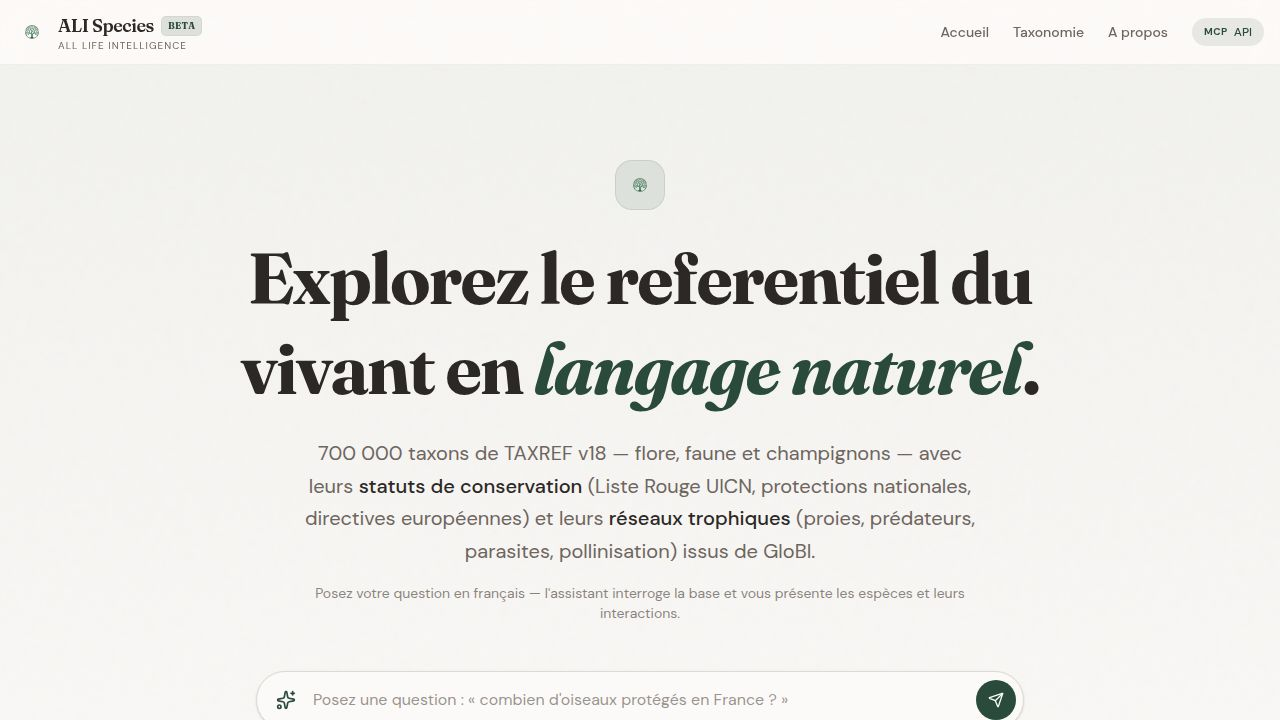
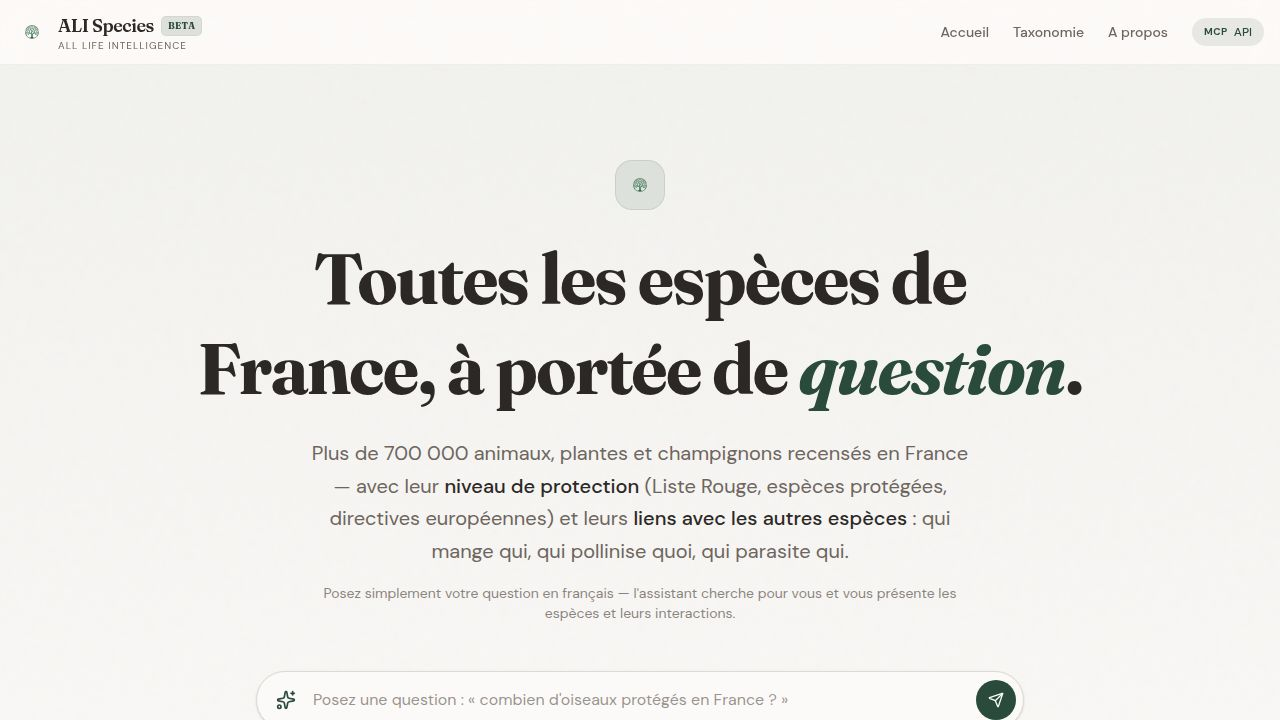
Update homepage text to be more accessible and engaging
Revise the home page's meta tags, title, and main content to use simpler, more inviting language and correct missing accents.

Replit-Commit-Author: Agent
Replit-Commit-Session-Id: 71650878-86ab-4b17-84a3-9e1638554659
Replit-Commit-Checkpoint-Type: full_checkpoint
Replit-Commit-Event-Id: 6b65151a-6105-4ef8-b159-d3953f11cf57
Replit-Commit-Screenshot-Url: https://storage.googleapis.com/screenshot-production-us-central1/38183778-ae0d-429b-93c2-632126d6a633/71650878-86ab-4b17-84a3-9e1638554659/s8YWKxS
Replit-Helium-Checkpoint-Created: true

diff --git a/artifacts/taxref-explorer/src/pages/home.tsx b/artifacts/taxref-explorer/src/pages/home.tsx
@@ -33,10 +33,10 @@ export default function Home() {
   return (
     <Layout>
       <Helmet>
-        <title>ALI Species — All Life Intelligence — Explorez le monde vivant de la France</title>
-        <meta name="description" content="ALI Species — All Life Intelligence. Explorez 700 000 taxons de TAXREF v18 : classification, statuts de conservation (Liste Rouge UICN, protections, directives) et reseaux trophiques GloBI (proies, predateurs, parasites, pollinisation)." />
-        <meta property="og:title" content="ALI Species — All Life Intelligence" />
-        <meta property="og:description" content="Explorez 700 000 taxons de TAXREF v18 : statuts de conservation et reseaux trophiques de la biodiversite francaise." />
+        <title>ALI Species — Découvrez toutes les espèces de France</title>
+        <meta name="description" content="Plus de 700 000 espèces animales, végétales et fongiques de France, avec leur niveau de protection et leurs liens avec les autres espèces. Posez votre question en français." />
+        <meta property="og:title" content="ALI Species — Découvrez toutes les espèces de France" />
+        <meta property="og:description" content="Plus de 700 000 espèces de France, leurs statuts de protection et leurs interactions avec les autres espèces." />
         <meta property="og:type" content="website" />
       </Helmet>
       <section className="relative pt-24 pb-32 px-4 overflow-visible">
@@ -47,13 +47,13 @@ export default function Home() {
             <img src={aliLogo} alt="ALI Species" className="w-8 h-8" />
           </div>
           <h1 className="text-5xl md:text-7xl font-serif font-bold text-foreground mb-6 leading-tight">
-            Explorez le referentiel du vivant en <span className="text-primary italic">langage naturel</span>.
+            Toutes les espèces de France, à portée de <span className="text-primary italic">question</span>.
           </h1>
           <p className="text-lg md:text-xl text-muted-foreground mb-4 max-w-2xl mx-auto leading-relaxed">
-            700 000 taxons de TAXREF v18 — flore, faune et champignons — avec leurs <span className="text-foreground font-medium">statuts de conservation</span> (Liste Rouge UICN, protections nationales, directives européennes) et leurs <span className="text-foreground font-medium">réseaux trophiques</span> (proies, prédateurs, parasites, pollinisation) issus de GloBI.
+            Plus de 700 000 animaux, plantes et champignons recensés en France — avec leur <span className="text-foreground font-medium">niveau de protection</span> (Liste Rouge, espèces protégées, directives européennes) et leurs <span className="text-foreground font-medium">liens avec les autres espèces</span> : qui mange qui, qui pollinise quoi, qui parasite qui.
           </p>
           <p className="text-sm text-muted-foreground/80 mb-12 max-w-2xl mx-auto">
-            Posez votre question en français — l'assistant interroge la base et vous présente les espèces et leurs interactions.
+            Posez simplement votre question en français — l'assistant cherche pour vous et vous présente les espèces et leurs interactions.
           </p>
 
           <ConversationalBar />
@@ -64,7 +64,7 @@ export default function Home() {
             className="mt-6 inline-flex items-center gap-2.5 px-6 py-3 text-sm font-semibold text-primary-foreground bg-primary hover:bg-primary/90 rounded-full transition-all hover:shadow-md hover:scale-[1.02] active:scale-[0.98] disabled:opacity-50 disabled:hover:scale-100"
           >
             <Shuffle className={`w-4 h-4 ${randomLoading ? "animate-spin" : ""}`} />
-            {randomLoading ? "Chargement..." : "Espece au hasard"}
+            {randomLoading ? "Chargement..." : "Une espèce au hasard"}
           </button>
         </div>
       </section>
@@ -72,8 +72,8 @@ export default function Home() {
       <section className="py-16 bg-card border-y border-border">
         <div className="container mx-auto px-4 max-w-5xl">
           <div className="text-center mb-10">
-            <h2 className="text-2xl font-serif font-semibold">Le vivant en chiffres</h2>
-            <p className="text-muted-foreground mt-2">Donnees du referentiel national</p>
+            <h2 className="text-2xl font-serif font-semibold">La biodiversité française en chiffres</h2>
+            <p className="text-muted-foreground mt-2">Source : référentiel TAXREF v18 du Muséum national d'Histoire naturelle</p>
           </div>
 
           <div className="grid grid-cols-2 md:grid-cols-5 gap-6">
@@ -86,11 +86,11 @@ export default function Home() {
               ))
             ) : (
               <>
-                <StatCard icon={<Microscope className="w-4 h-4" />} value={stats.totalTaxons.toLocaleString("fr-FR")} label="Taxons" />
-                <StatCard icon={<Trees className="w-4 h-4" />} value={stats.totalSpecies.toLocaleString("fr-FR")} label="Especes" />
+                <StatCard icon={<Microscope className="w-4 h-4" />} value={stats.totalTaxons.toLocaleString("fr-FR")} label="Fiches" />
+                <StatCard icon={<Trees className="w-4 h-4" />} value={stats.totalSpecies.toLocaleString("fr-FR")} label="Espèces" />
                 <StatCard icon={<Layers className="w-4 h-4" />} value={stats.totalGenera.toLocaleString("fr-FR")} label="Genres" />
                 <StatCard icon={<BookOpen className="w-4 h-4" />} value={stats.totalFamilies.toLocaleString("fr-FR")} label="Familles" />
-                <StatCard icon={<ScrollText className="w-4 h-4" />} value={stats.totalStatuts.toLocaleString("fr-FR")} label="Statuts BDC" />
+                <StatCard icon={<ScrollText className="w-4 h-4" />} value={stats.totalStatuts.toLocaleString("fr-FR")} label="Statuts de protection" />
               </>
             )}
           </div>
@@ -109,23 +109,27 @@ export default function Home() {
       </section>
 
       <section className="py-24 px-4 container mx-auto max-w-5xl">
-        <h2 className="text-3xl font-serif font-semibold mb-10 text-center">Les grands regnes</h2>
+        <h2 className="text-3xl font-serif font-semibold mb-3 text-center">Explorez les trois grands règnes</h2>
+        <p className="text-muted-foreground text-center mb-10 max-w-2xl mx-auto">Cliquez sur un règne pour parcourir les espèces qu'il rassemble.</p>
         <div className="grid md:grid-cols-3 gap-8">
           <FeaturedCard 
             title="Animalia" 
-            desc="Des invertebres microscopiques aux mammiferes."
+            subtitle="Les animaux"
+            desc="Du plancton invisible aux grands mammifères, en passant par les insectes, poissons et oiseaux."
             fallbackImage={animaliaImg}
             cdNom={183716}
           />
           <FeaturedCard 
             title="Plantae" 
-            desc="Plantes a fleurs, fougeres, mousses et algues vertes."
+            subtitle="Les plantes"
+            desc="Plantes à fleurs, fougères, mousses et algues vertes."
             fallbackImage={plantaeImg}
             cdNom={187079}
           />
           <FeaturedCard 
             title="Fungi" 
-            desc="Champignons, moisissures et levures."
+            subtitle="Les champignons"
+            desc="Champignons, moisissures et levures — un règne à part entière."
             fallbackImage={fungiImg}
             cdNom={187496}
           />
@@ -147,7 +151,7 @@ function StatCard({ icon, value, label }: { icon: React.ReactNode, value: string
   );
 }
 
-function FeaturedCard({ title, desc, fallbackImage, cdNom }: { title: string, desc: string, fallbackImage: string, cdNom: number }) {
+function FeaturedCard({ title, subtitle, desc, fallbackImage, cdNom }: { title: string, subtitle: string, desc: string, fallbackImage: string, cdNom: number }) {
   return (
     <Link href={taxonUrl(cdNom, title)} className="group block">
       <div className="relative h-64 rounded-2xl overflow-hidden mb-4 bg-muted">
@@ -157,7 +161,10 @@ function FeaturedCard({ title, desc, fallbackImage, cdNom }: { title: string, de
           className="w-full h-full object-cover transition-transform duration-700 group-hover:scale-105"
         />
         <div className="absolute inset-0 bg-gradient-to-t from-black/60 to-transparent" />
-        <h3 className="absolute bottom-4 left-4 text-2xl font-serif font-bold text-white">{title}</h3>
+        <div className="absolute bottom-4 left-4 right-4">
+          <h3 className="text-2xl font-serif font-bold text-white italic">{title}</h3>
+          <p className="text-sm text-white/90 font-medium">{subtitle}</p>
+        </div>
       </div>
       <p className="text-muted-foreground group-hover:text-foreground transition-colors">{desc}</p>
     </Link>